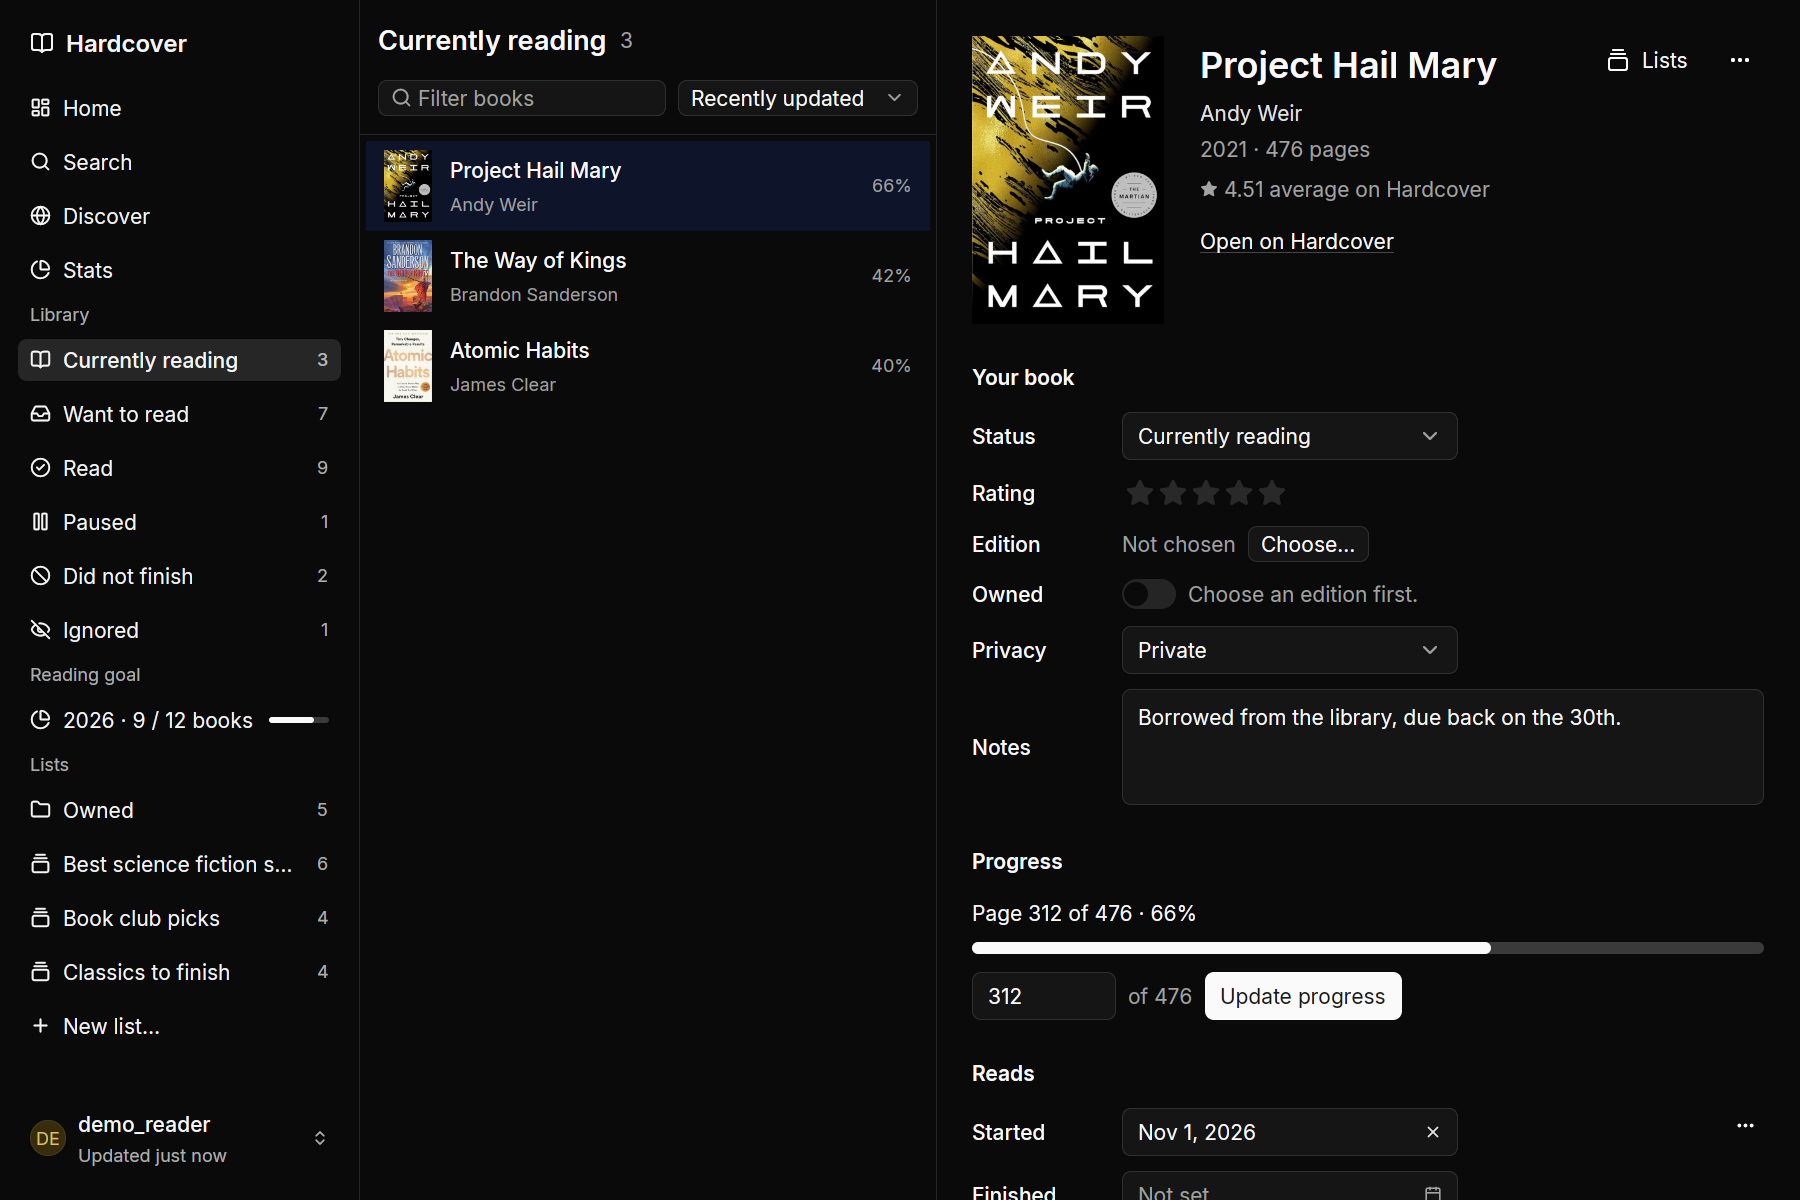
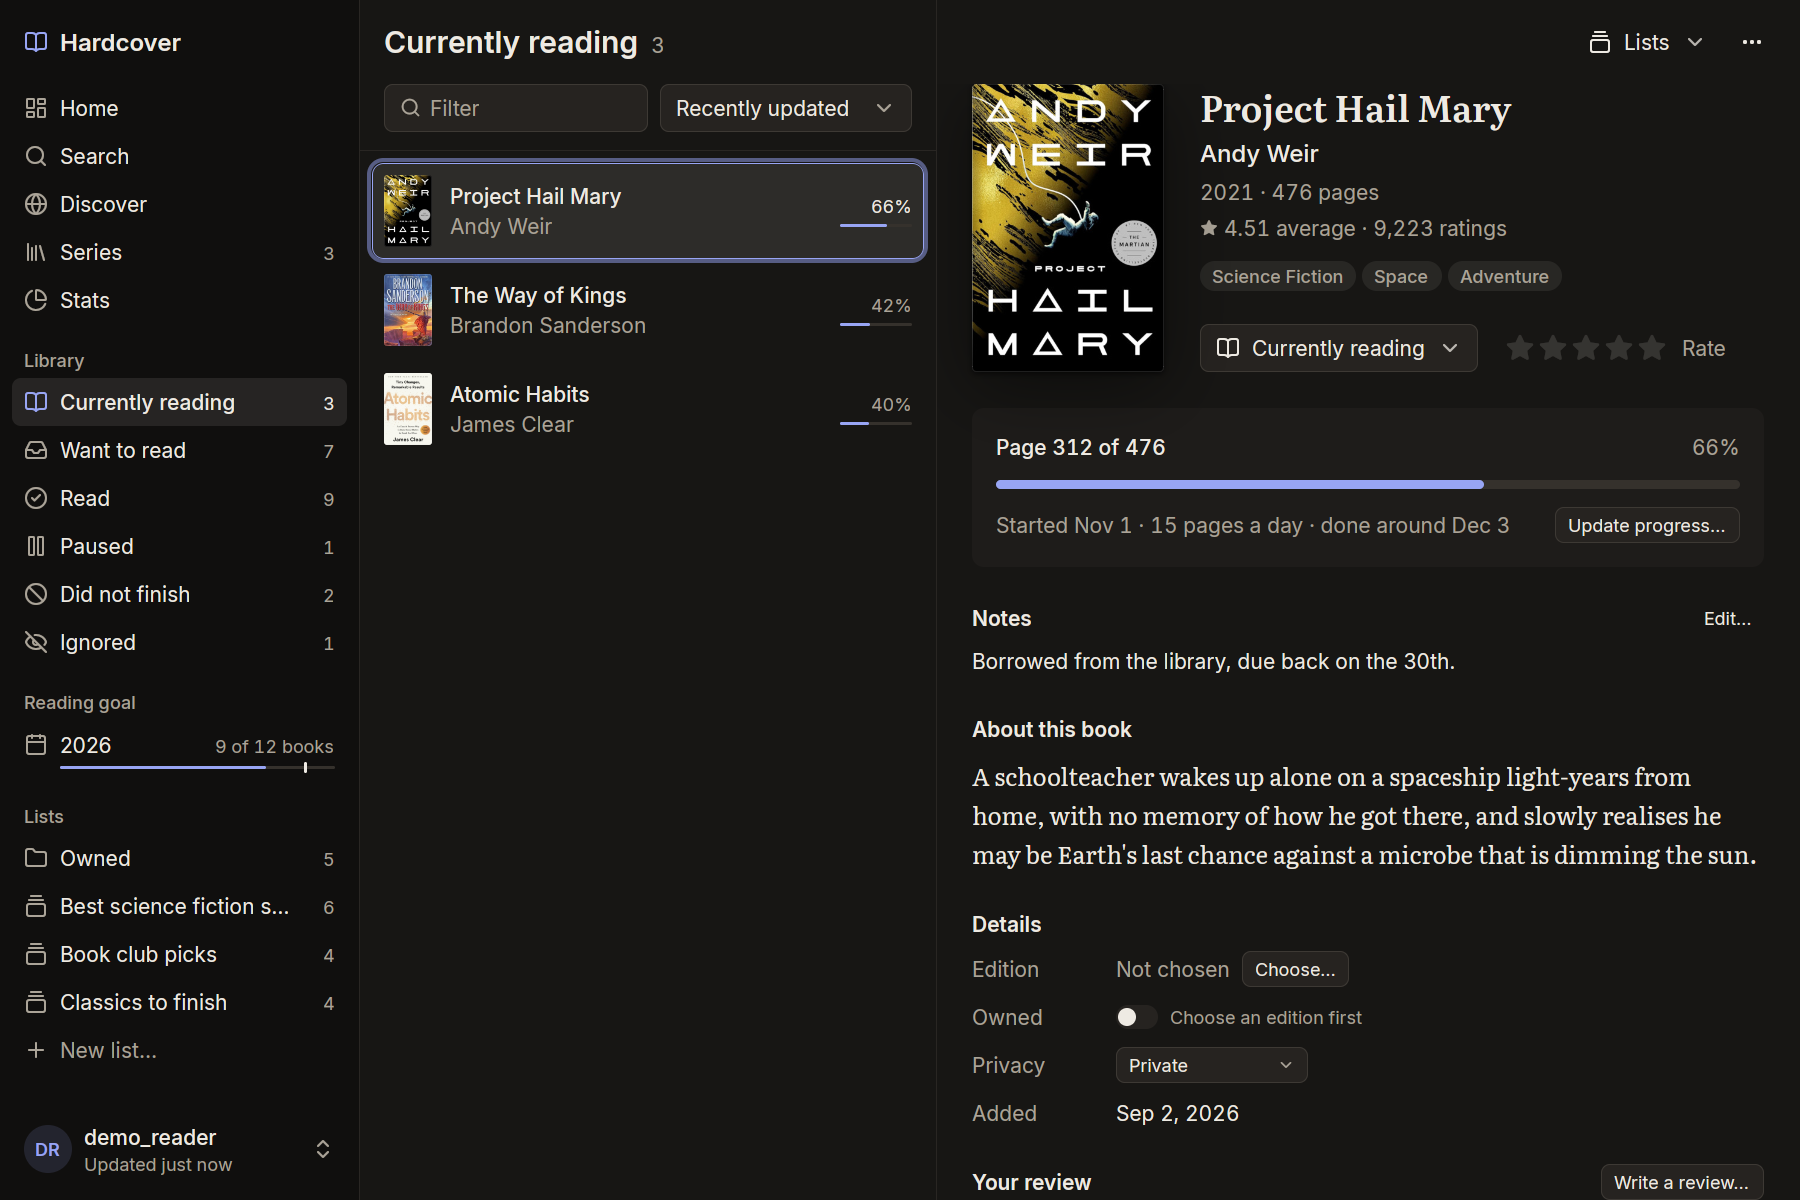
README: Home, the shelf and Series in the screenshots; Series, Coming soon and reviews in the features

diff --git a/README.md b/README.md
@@ -20,14 +20,16 @@ Hardcover Desktop is a native app built with Rust and [GPUI](https://gpui-kit.co
 > This is a community project. It is not made by, affiliated with, or endorsed by Hardcover.
 
 <picture>
-  <source media="(prefers-color-scheme: dark)" srcset="docs/screenshots/library-dark.png">
-  <img src="docs/screenshots/library-light.png" alt="Hardcover Desktop showing the Currently reading shelf, with a book's page beside it: its status, rating, edition, privacy, notes and reading progress">
+  <source media="(prefers-color-scheme: dark)" srcset="docs/screenshots/home-dark.png">
+  <img src="docs/screenshots/home-light.png" alt="Home: the books being read with their progress and pace, the reading goal and whether it is on track, the next book in a series, the newest books on Want to read, and the books coming soon">
 </picture>
 
 ## Features
 
 - **Home:** the books you're reading, with your pace and when each should be done at it, your reading goal and whether you're on track, and what to read next, such as the next book in a series you've started.
 - **Your library by shelf:** Currently Reading, Want to Read, Read, Paused and Did Not Finish, with counts in the sidebar, plus the books you ignored.
+- **Series:** every series you've started, with the books you've read, the one you're on and the next one to read, grouped into in progress, waiting for the next book, not touched in a year and finished.
+- **Coming soon:** the unreleased books in the series on your shelves, by release date, with one click to put them on Want to Read.
 - **Search:** find any book, author or series on Hardcover, and add books to a shelf.
 - **Discover:** the books the most readers finished on Hardcover this week, month, three months, year or of all time, each with its shelf.
 - **Book details:** the authors and other contributors, series, page count, average rating, description, ratings breakdown, genres, moods and content warnings, and similar books.
@@ -35,6 +37,7 @@ Hardcover Desktop is a native app built with Rust and [GPUI](https://gpui-kit.co
 - **Your reading:** set the status and rating, update your progress in pages (or time, for an audiobook), set the dates you started and finished, or remove a book.
 - **Your copy:** choose the edition you read, keep private notes, choose who can see the book, and mark it owned or not (your Owned list on Hardcover).
 - **Every read:** see each time you read a book, add a re-read or an earlier read, change its dates, or delete it.
+- **Reviews:** read what other readers wrote about a book, with their ratings; spoilers stay hidden until you ask.
 - **Your review:** write a review of a book in your library, in Markdown, mark it as containing spoilers and date it; change or delete it later. A review written on the website is shown here and edited there.
 - **Reading goals:** see this year's goal and your pace in the sidebar, and set, change or delete a goal of books, pages or hours.
 - **Lists:** open your lists from the sidebar to see their books in order, create, edit or delete a list, and put a book on your lists or take it off from its page.
@@ -45,8 +48,8 @@ Hardcover Desktop is a native app built with Rust and [GPUI](https://gpui-kit.co
 - **Settings:** choose a light or dark theme or follow the system, and turn automatic update checks on or off.
 
 <picture>
-  <source media="(prefers-color-scheme: dark)" srcset="docs/screenshots/search-dark.png">
-  <img src="docs/screenshots/search-light.png" alt="Searching books for Dune, with the Books, Authors and Series switch above the results and the first result's page open beside the list">
+  <source media="(prefers-color-scheme: dark)" srcset="docs/screenshots/library-dark.png">
+  <img src="docs/screenshots/library-light.png" alt="The Currently reading shelf, with a book's page beside it: its status, rating, progress, notes, edition, owned switch and privacy">
 </picture>
 
 - **Keyboard first:**
@@ -65,8 +68,8 @@ Hardcover Desktop is a native app built with Rust and [GPUI](https://gpui-kit.co
   | <kbd>Ctrl</kbd>+<kbd>Q</kbd> | Quit |
 
 <picture>
-  <source media="(prefers-color-scheme: dark)" srcset="docs/screenshots/discover-dark.png">
-  <img src="docs/screenshots/discover-light.png" alt="Discover, listing the books the most readers finished on Hardcover in the last month, each with its shelf">
+  <source media="(prefers-color-scheme: dark)" srcset="docs/screenshots/series-dark.png">
+  <img src="docs/screenshots/series-light.png" alt="Series: the series the reader has started, grouped by where they are, each with its books as a row of covers and the next step in it">
 </picture>
 
 ## Install
